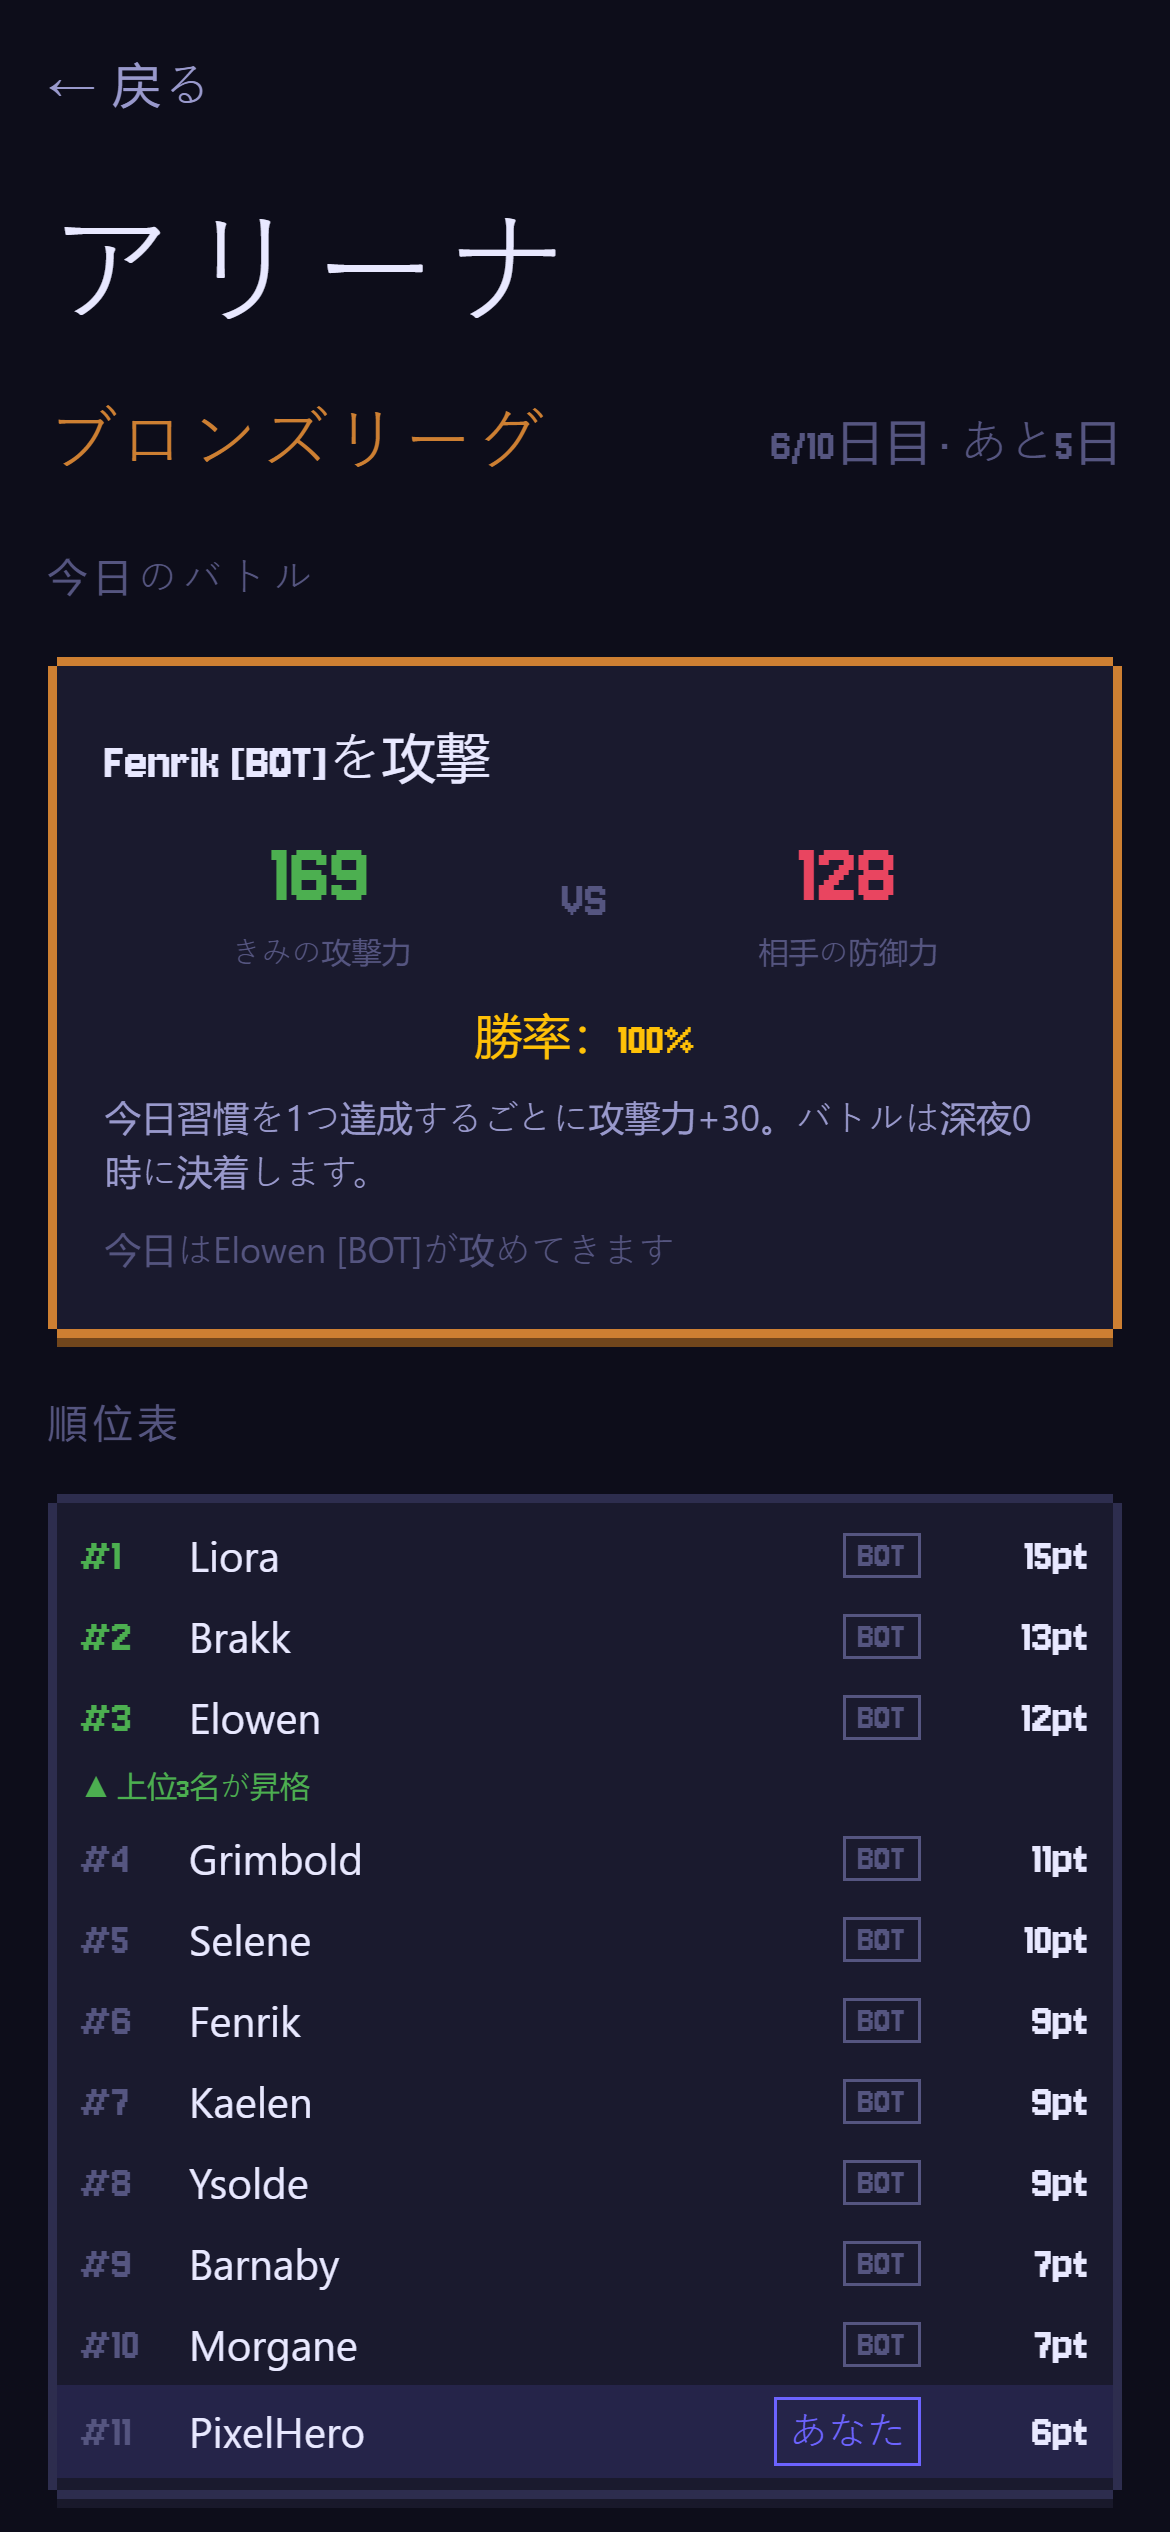
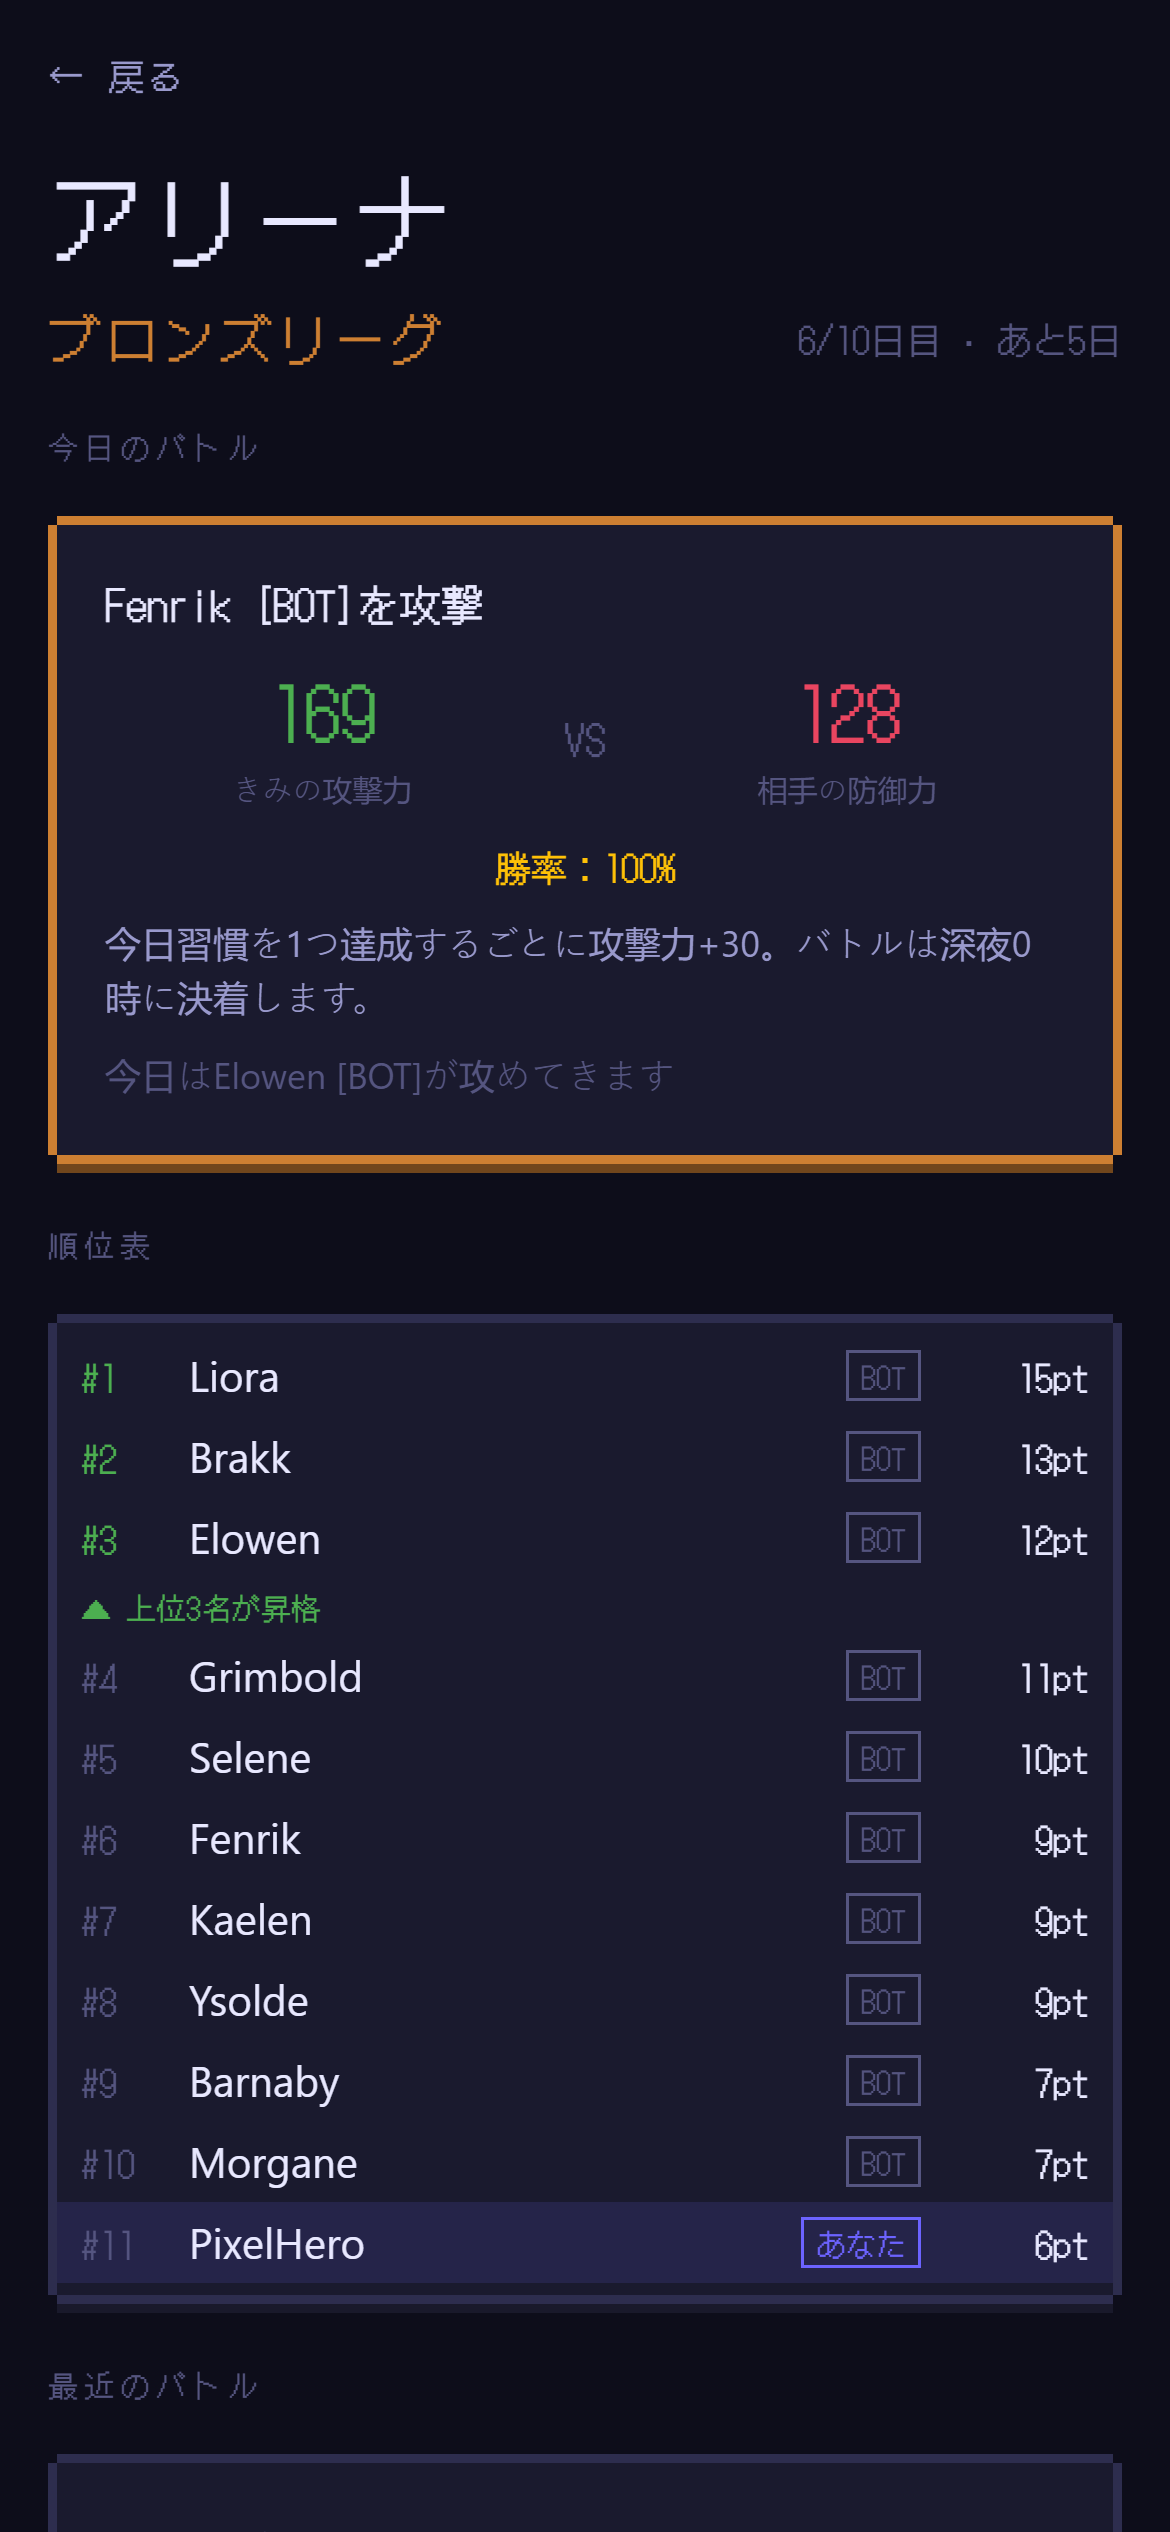
chore(store): Japanese screenshots in the Japanese pixel font
The Japanese store screenshots are captured again from the app with its
new Japanese pixel font (DotGothic16), and their captions use it too
(Jersey 10 has no Japanese characters).

Claude-Session: https://claude.ai/code/session_01Eys7kWVc1zDTJfAqSJXv3r

diff --git a/marketing/templates/store.html b/marketing/templates/store.html
@@ -2,7 +2,7 @@
 <html>
 <head>
 <meta charset="utf-8" />
-<link href="https://fonts.googleapis.com/css2?family=Jersey+10&family=Inter:wght@600;700&display=swap" rel="stylesheet" />
+<link href="https://fonts.googleapis.com/css2?family=Jersey+10&family=DotGothic16&family=Inter:wght@600;700&display=swap" rel="stylesheet" />
 <style>
   /* App Store / Google Play screenshot, in the app's pixel art direction (ADR 011). */
   :root {
@@ -23,10 +23,10 @@
   }
   .head { width: 100%; display: flex; flex-direction: column; align-items: center; text-align: center; position: relative; z-index: 1; }
   .badge {
-    font-family: 'Jersey 10', monospace; color: var(--accent); letter-spacing: .12em;
+    font-family: 'Jersey 10', 'DotGothic16', monospace; color: var(--accent); letter-spacing: .12em;
     border: var(--px) solid var(--accent); padding: .1em .6em; background: rgba(255, 215, 0, .08);
   }
-  h1 { font-family: 'Jersey 10', monospace; font-weight: 400; line-height: .95; letter-spacing: .02em; }
+  h1 { font-family: 'Jersey 10', 'DotGothic16', monospace; font-weight: 400; line-height: .95; letter-spacing: .02em; }
   h1 em { font-style: normal; color: var(--accent); }
   p.sub { font-family: 'Inter', sans-serif; font-weight: 600; color: var(--muted); line-height: 1.3; }
   .frame {
